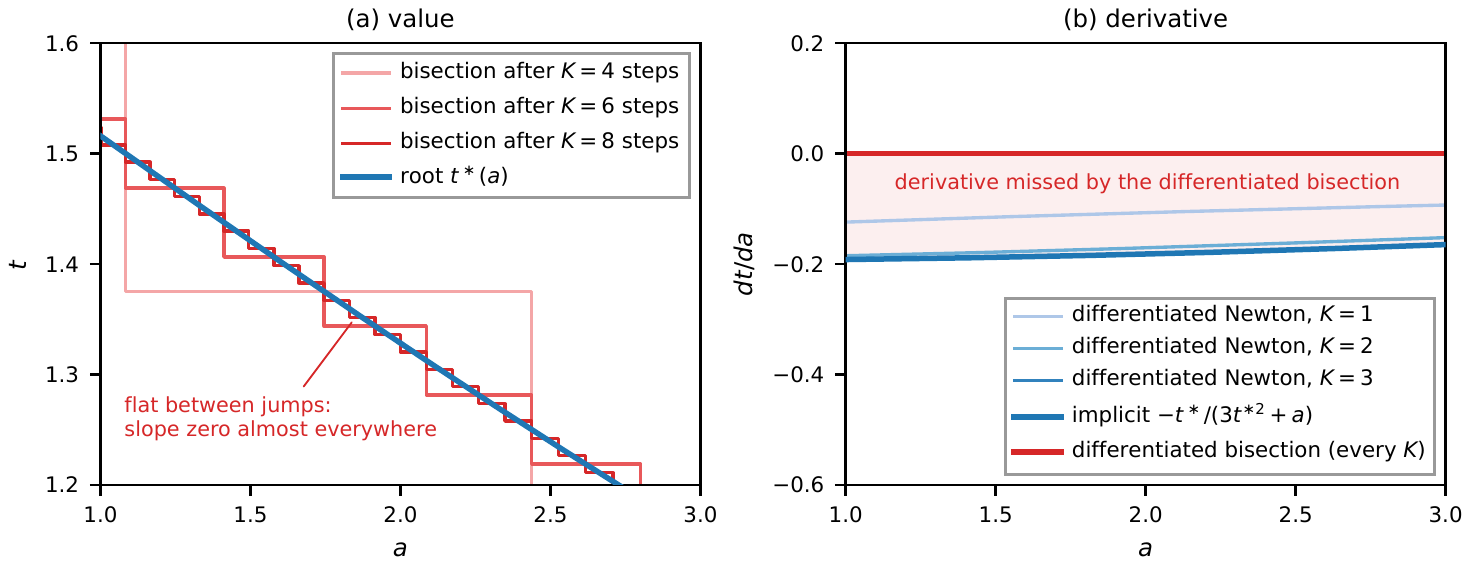
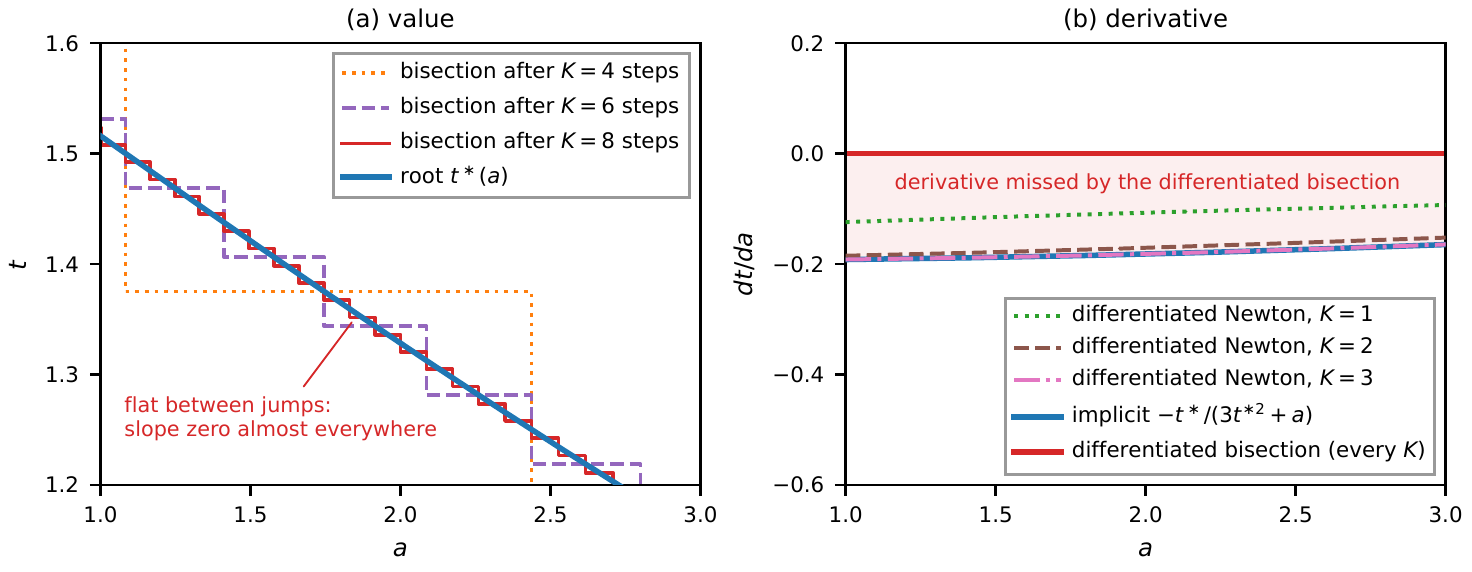
research/srhd: bisection figure, a colour and a line style for every iteration count

diff --git a/research/srhd/make_schematics.py b/research/srhd/make_schematics.py
@@ -50,11 +50,13 @@ def newton(av, K, t0=2.0):
 
 t = root(a); dt = -t / (3 * t * t + a)
 C, INK, MUTED = mf.C, mf.INK, mf.MUTED
-shade = ['#f4a6a7', '#e8585a', '#d62728']          # light to full red: more bisection steps
+# each K its own colour and line style (not only a shade): bisection in (a), Newton in (b)
+bis_style = [('#ff7f0e', ':'), ('#9467bd', '--'), ('#d62728', '-')]
+newton_style = [('#2ca02c', ':'), ('#8c564b', '--'), ('#e377c2', '-.')]
 fig, axs = mf.new(mf.TWO, 2.6, ncols=2)
 ax = axs[0]
-for K, col in zip((4, 6, 8), shade):
-    ax.plot(a, bisect(a, K), '-', color=col, lw=1.1, drawstyle='steps-mid', label=f'bisection after $K={K}$ steps')
+for K, (col, ls) in zip((4, 6, 8), bis_style):
+    ax.plot(a, bisect(a, K), ls, color=col, lw=1.2, drawstyle='steps-mid', label=f'bisection after $K={K}$ steps')
 ax.plot(a, t, '-', color=C['cuad'], lw=1.8, label=r'root $t^\ast(a)$', zorder=4)
 mf.title(ax, 'a', 'value')
 ax.set_xlabel('$a$'); ax.set_ylabel('$t$')
@@ -63,8 +65,8 @@ ax.legend(loc='upper right')
 mf.note(ax, (1.85, float(bisect(np.array([1.85]), 8)[0])), (1.08, 1.26), 'flat between jumps:\nslope zero almost everywhere',
         color=C['enzyme'])
 ax = axs[1]
-for K, col in zip((1, 2, 3), ('#aec7e8', '#6baed6', '#3182bd')):
-    ax.plot(a, newton(a, K)[1], '-', color=col, lw=1.1, label=f'differentiated Newton, $K={K}$')
+for K, (col, ls) in zip((1, 2, 3), newton_style):
+    ax.plot(a, newton(a, K)[1], ls, color=col, lw=1.3, label=f'differentiated Newton, $K={K}$', zorder=5)
 ax.plot(a, dt, '-', color=C['cuad'], lw=1.8, label=r'implicit $-t^\ast/(3t^{\ast 2}+a)$', zorder=4)
 ax.plot(a, np.zeros_like(a), '-', color=C['enzyme'], lw=1.8, label='differentiated bisection (every $K$)')
 ax.fill_between(a, dt, 0, color=C['enzyme'], alpha=0.07, lw=0)
